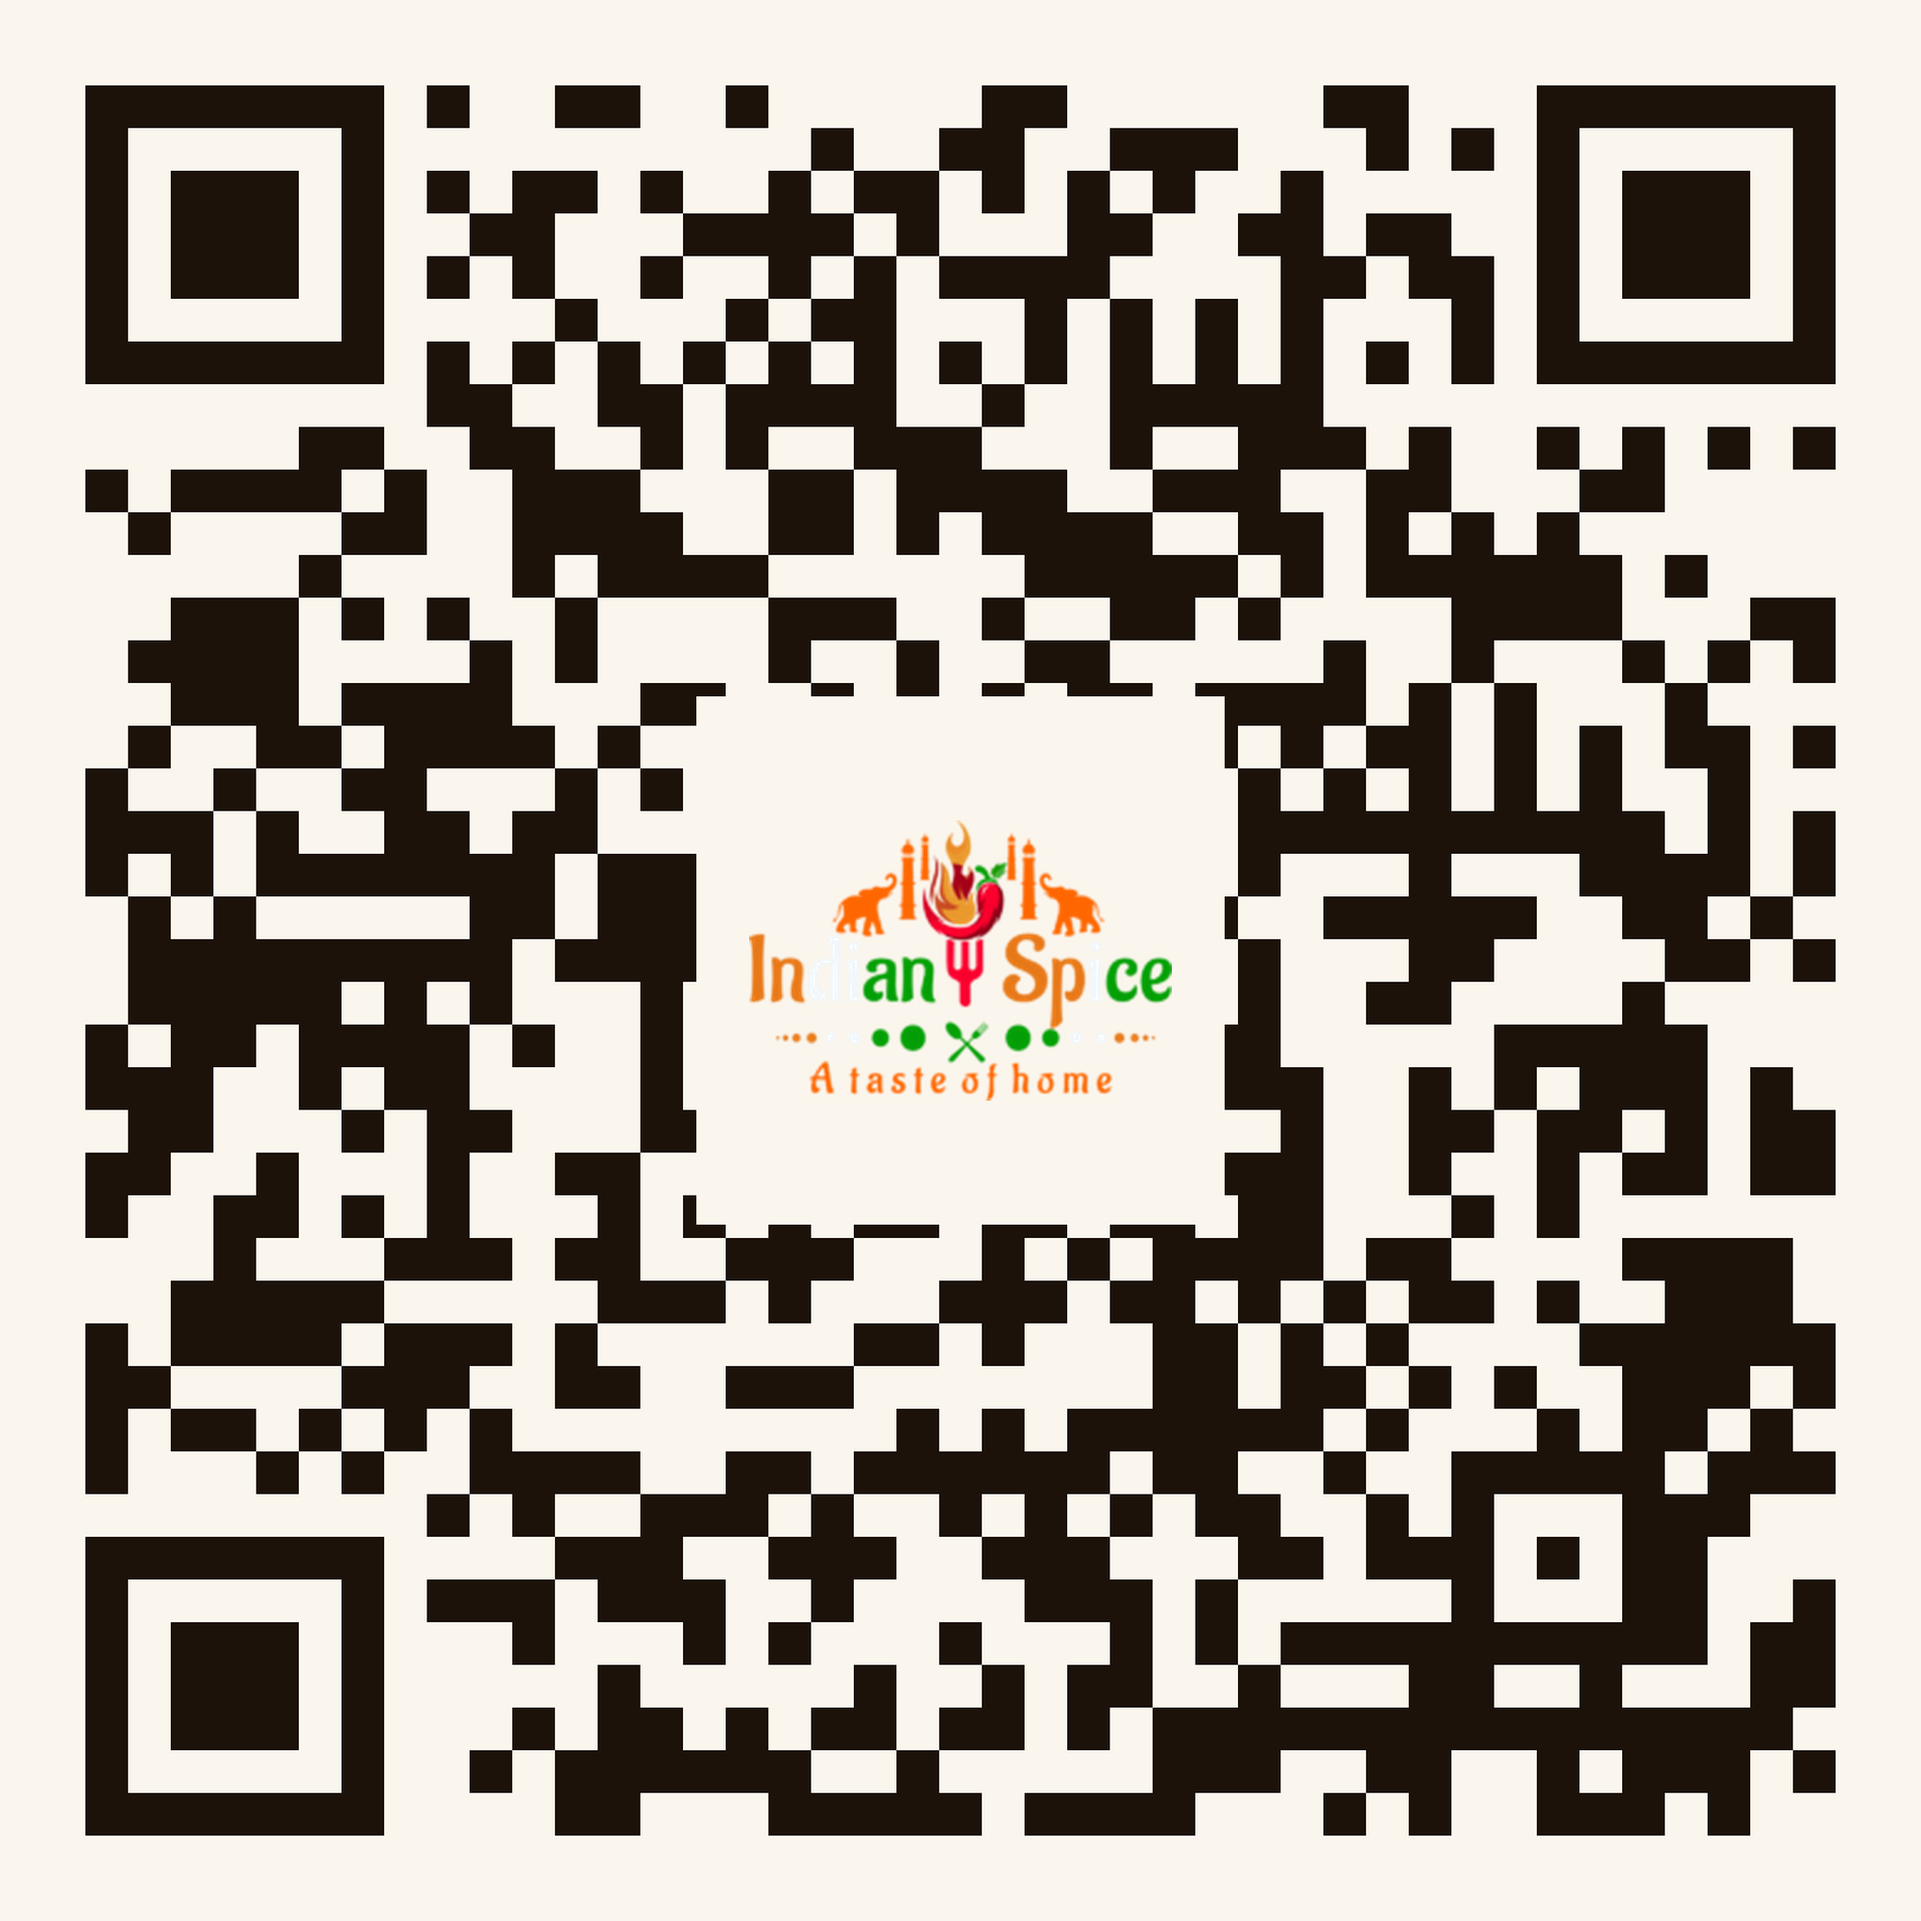
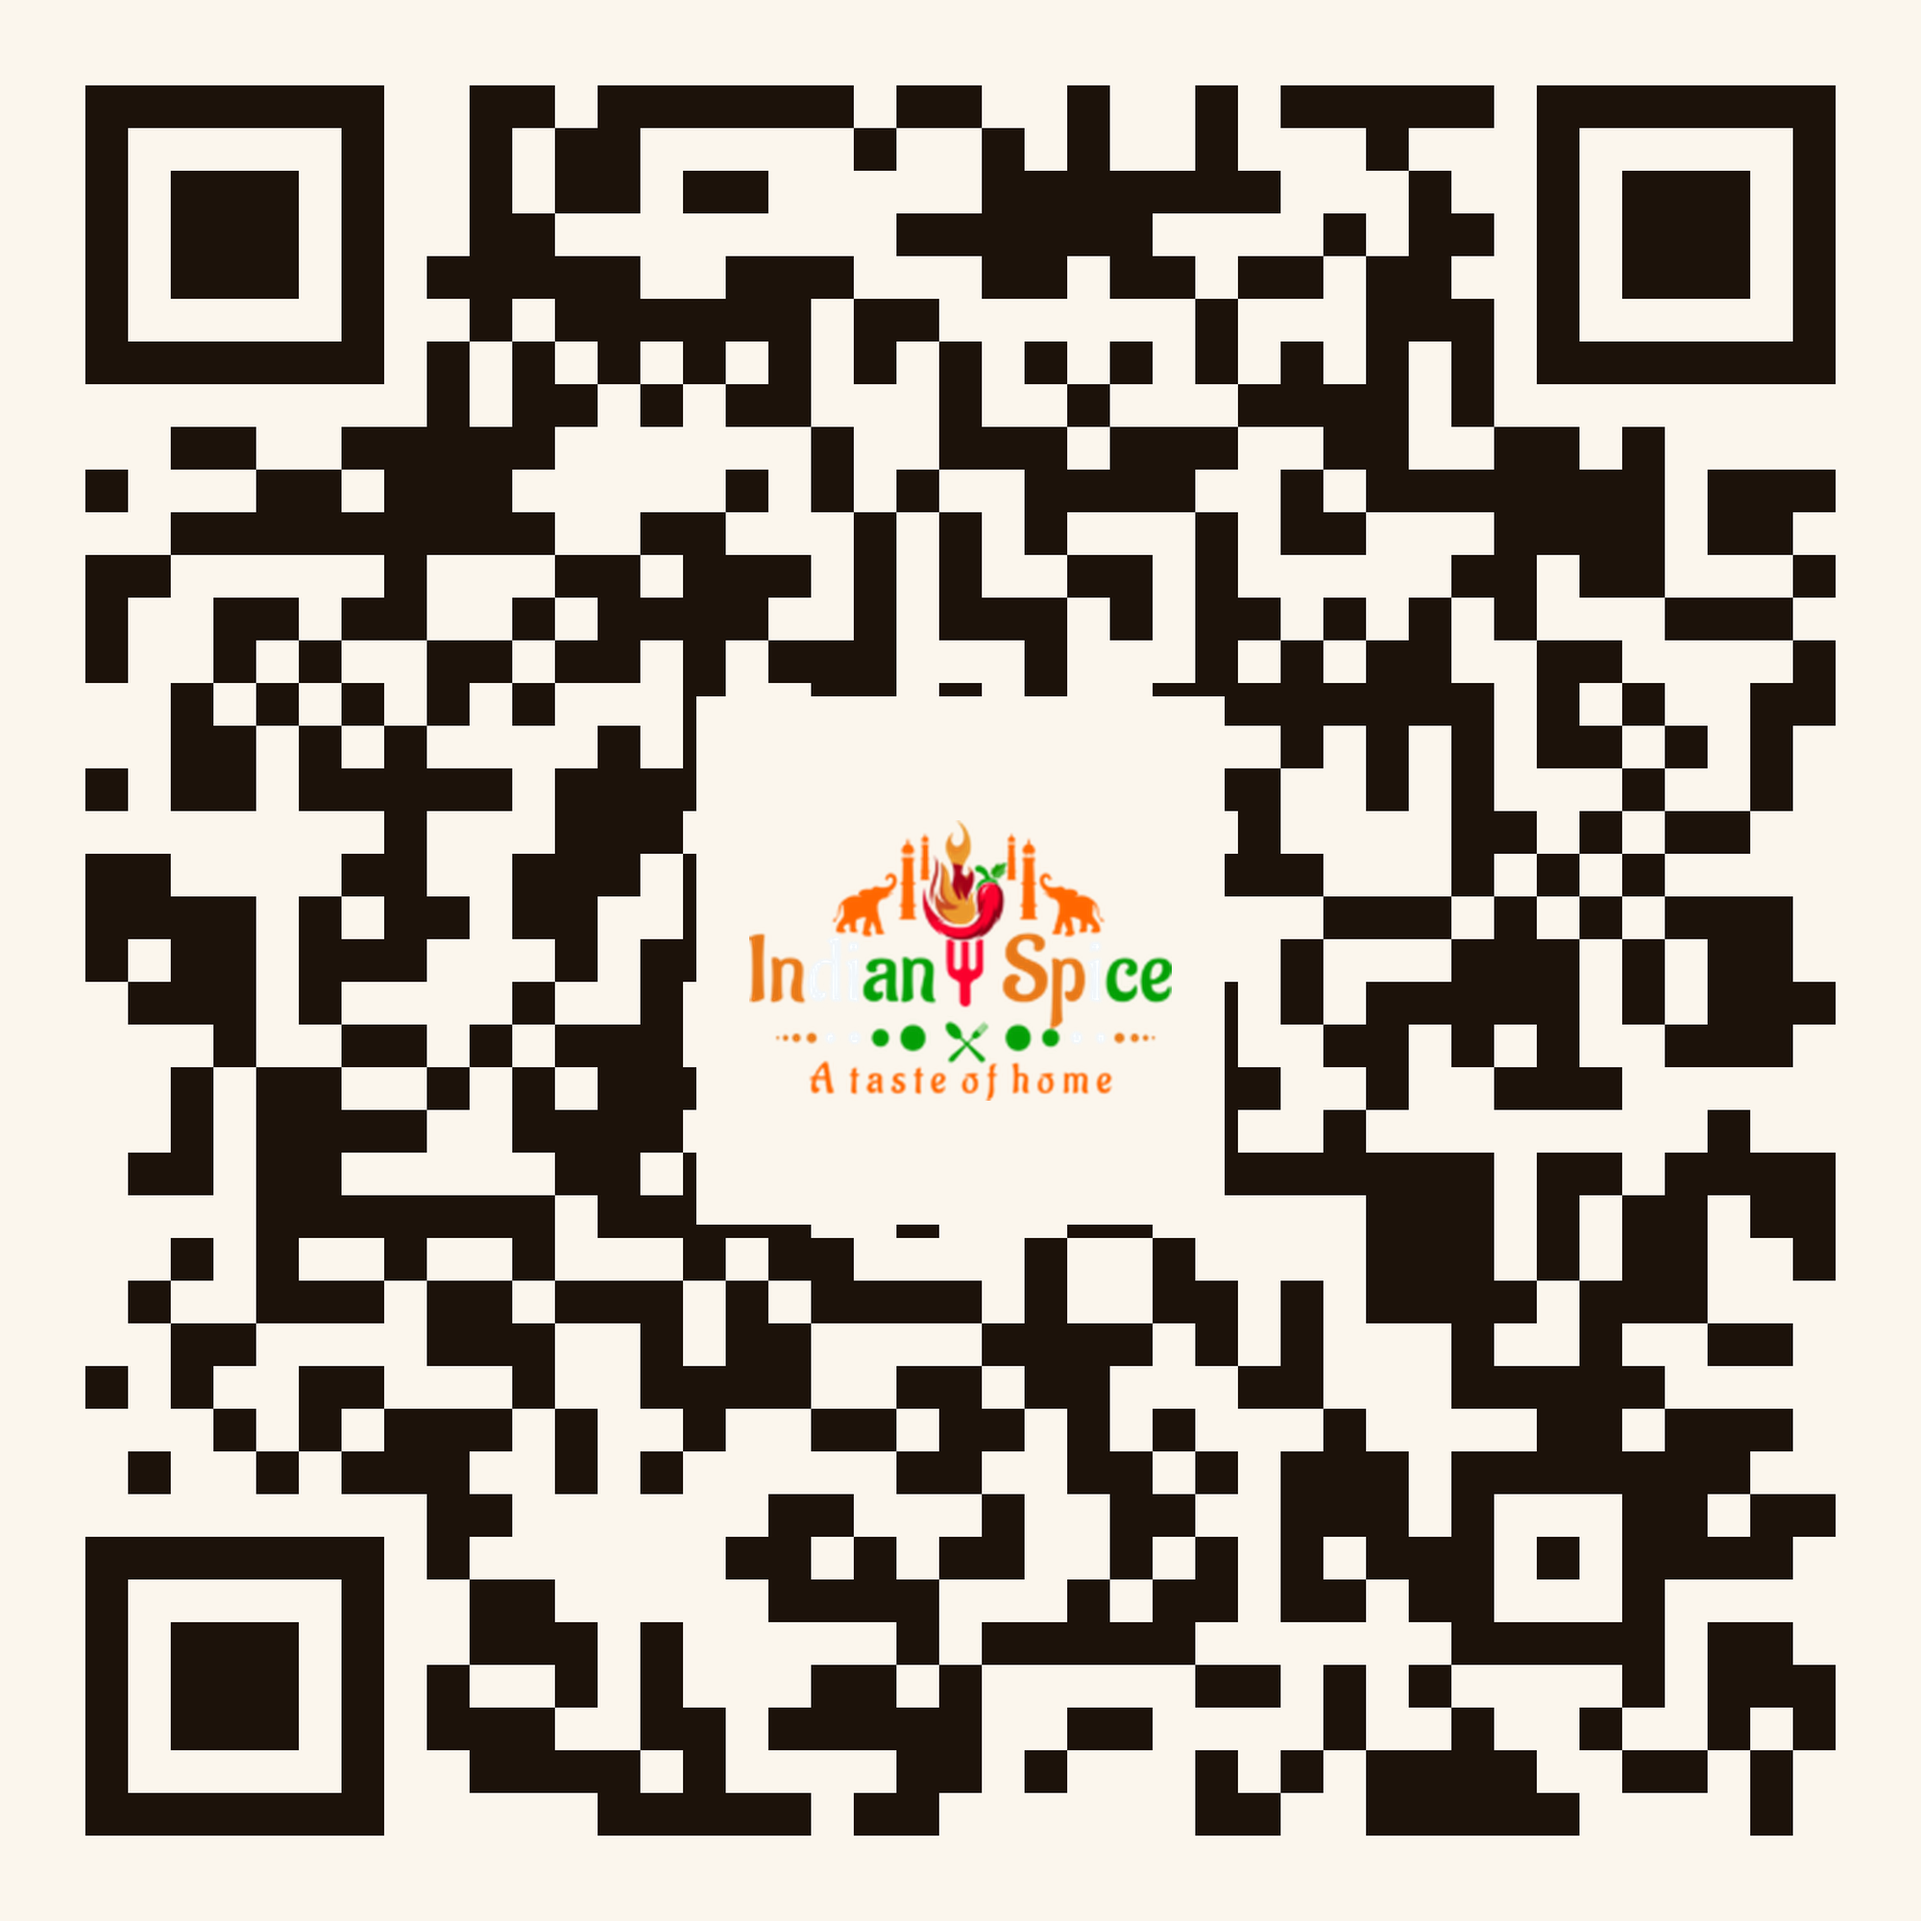
QR codes now land directly on the menu section

diff --git a/generate-qr.py b/generate-qr.py
@@ -11,7 +11,7 @@ import qrcode
 from qrcode.constants import ERROR_CORRECT_H
 from PIL import Image
 
-URL = "https://mercermilan-crypto.github.io/indianspice/"
+URL = "https://mercermilan-crypto.github.io/indianspice/#menu"
 LOGO_URL = "https://indianspice.ca/wp-content/uploads/2023/10/PNG-C-1536x1018-1-170x113-1.png"
 
 # ---------- 1. Clean QR ----------
